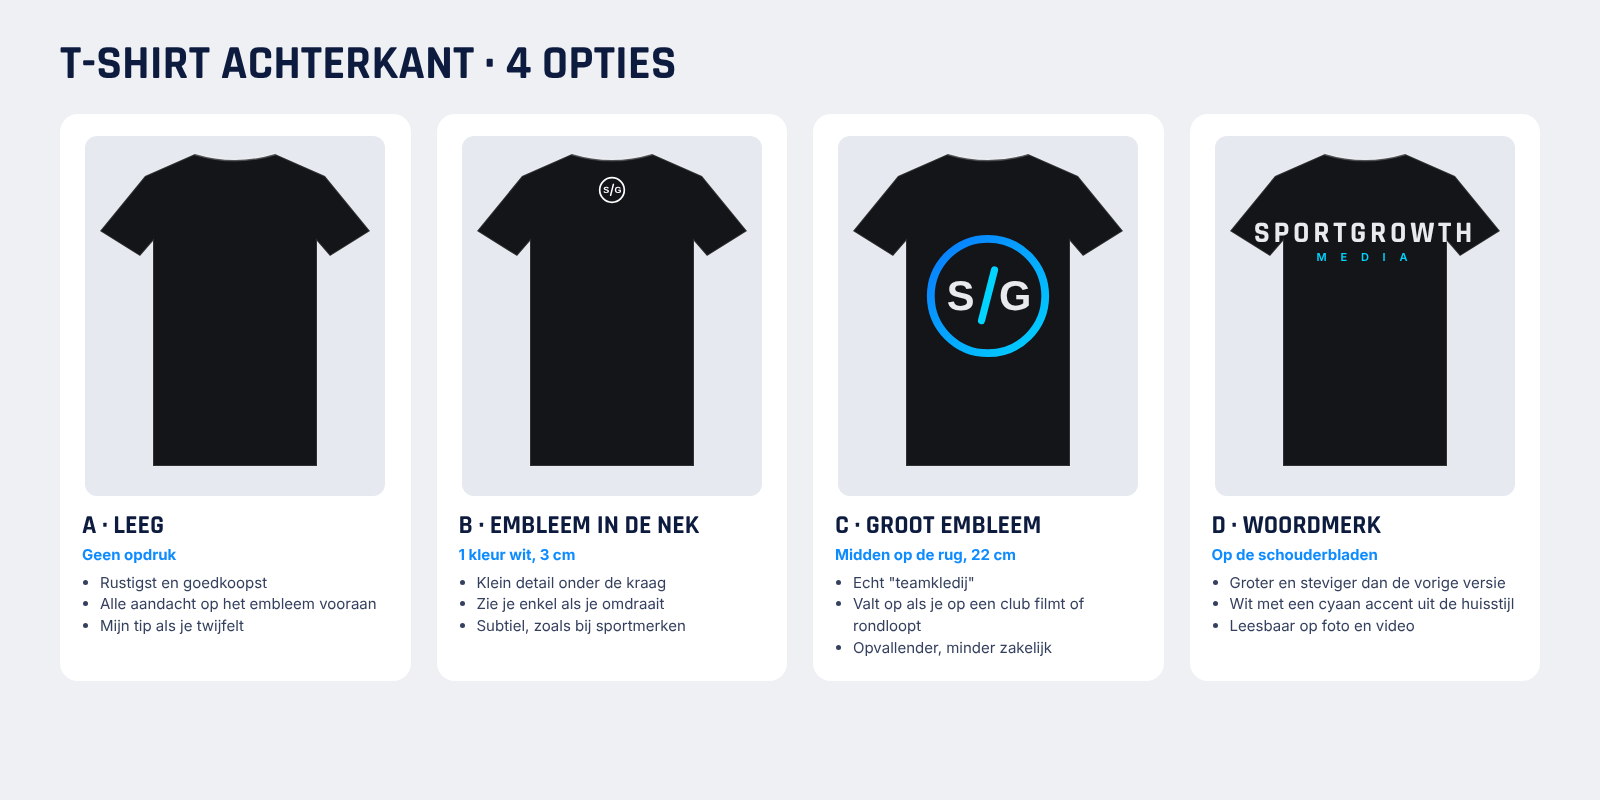
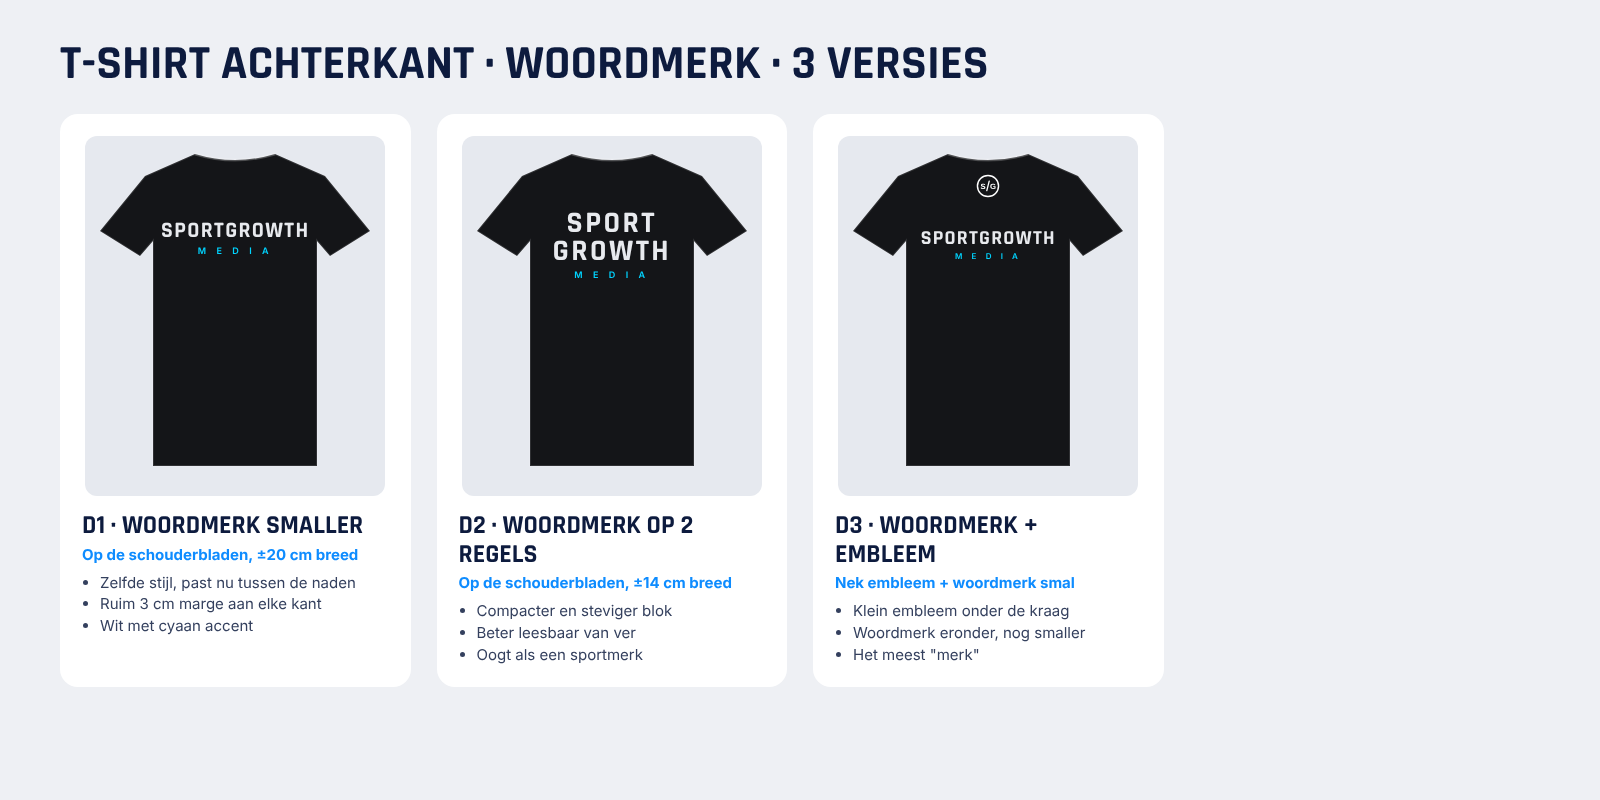
Merch: woordmerk smaller, 3 versies
Claude-Session: https://claude.ai/code/session_01QkSWZzWLTduRQtPp2zathG

diff --git a/merch/achterkant.js b/merch/achterkant.js
@@ -11,10 +11,9 @@ const html=`<style>@font-face{font-family:Rj;src:url(${f64(F+'/rajdhani-700.woff
 body{margin:0;background:#eef0f4;font-family:In;color:#0d1b3e;width:1600px}.head{padding:40px 60px 0}.head h1{font:700 48px/1 Rj;margin:0;text-transform:uppercase}
 .grid{display:grid;grid-template-columns:repeat(4,1fr);gap:26px;padding:26px 60px 44px}.card{background:#fff;border-radius:18px;padding:22px}
 .art{position:relative;width:300px;height:360px;margin:0 auto;background:#e6e9ef;border-radius:12px}h3{font:700 26px/1.1 Rj;text-transform:uppercase;margin:16px 0 4px}.sub{color:#0e8cff;font-weight:700;font-size:15px;margin-bottom:8px}ul{margin:0;padding-left:18px;font-size:15px;line-height:1.45;color:#34405e}</style>
-<div class="head"><h1>T-shirt achterkant · 4 opties</h1></div><div class="grid">
-${card('A · Leeg','Geen opdruk',``,['Rustigst en goedkoopst','Alle aandacht op het embleem vooraan','Mijn tip als je twijfelt'])}
-${card('B · Embleem in de nek','1 kleur wit, 3 cm',L(136,40,28,emb1),['Klein detail onder de kraag','Zie je enkel als je omdraait','Subtiel, zoals bij sportmerken'])}
-${card('C · Groot embleem','Midden op de rug, 22 cm',L(85,95,130),['Echt "teamkledij"','Valt op als je op een club filmt of rondloopt','Opvallender, minder zakelijk'])}
-${card('D · Woordmerk','Op de schouderbladen',T(150,82,'SPORTGROWTH','font:700 30px/1 Rj;letter-spacing:.12em;color:#e8eaee')+T(150,116,'M E D I A','font:600 11px/1 In;letter-spacing:.5em;color:#00d4ff'),['Groter en steviger dan de vorige versie','Wit met een cyaan accent uit de huisstijl','Leesbaar op foto en video'])}
+<div class="head"><h1>T-shirt achterkant · woordmerk · 3 versies</h1></div><div class="grid">
+${card('D1 · Woordmerk smaller','Op de schouderbladen, ±20 cm breed',T(150,84,'SPORTGROWTH','font:700 22px/1 Rj;letter-spacing:.06em;color:#e8eaee')+T(150,110,'M E D I A','font:600 9px/1 In;letter-spacing:.45em;color:#00d4ff'),['Zelfde stijl, past nu tussen de naden','Ruim 3 cm marge aan elke kant','Wit met cyaan accent'])}
+${card('D2 · Woordmerk op 2 regels','Op de schouderbladen, ±14 cm breed',T(150,74,'SPORT','font:700 30px/.9 Rj;letter-spacing:.08em;color:#e8eaee')+T(150,102,'GROWTH','font:700 30px/.9 Rj;letter-spacing:.08em;color:#e8eaee')+T(150,134,'M E D I A','font:600 9px/1 In;letter-spacing:.45em;color:#00d4ff'),['Compacter en steviger blok','Beter leesbaar van ver','Oogt als een sportmerk'])}
+${card('D3 · Woordmerk + embleem','Nek embleem + woordmerk smal',L(138,38,24,emb1)+T(150,92,'SPORTGROWTH','font:700 20px/1 Rj;letter-spacing:.06em;color:#e8eaee')+T(150,116,'M E D I A','font:600 8px/1 In;letter-spacing:.45em;color:#00d4ff'),['Klein embleem onder de kraag','Woordmerk eronder, nog smaller','Het meest "merk"'])}
 </div>`;
 (async()=>{const b=await chromium.launch();const p=await b.newPage({viewport:{width:1600,height:800}});await p.setContent(html);await p.evaluate(()=>document.fonts.ready);await p.screenshot({path:__dirname+'/tshirt-achterkant-opties.png',fullPage:true});await b.close();})();
